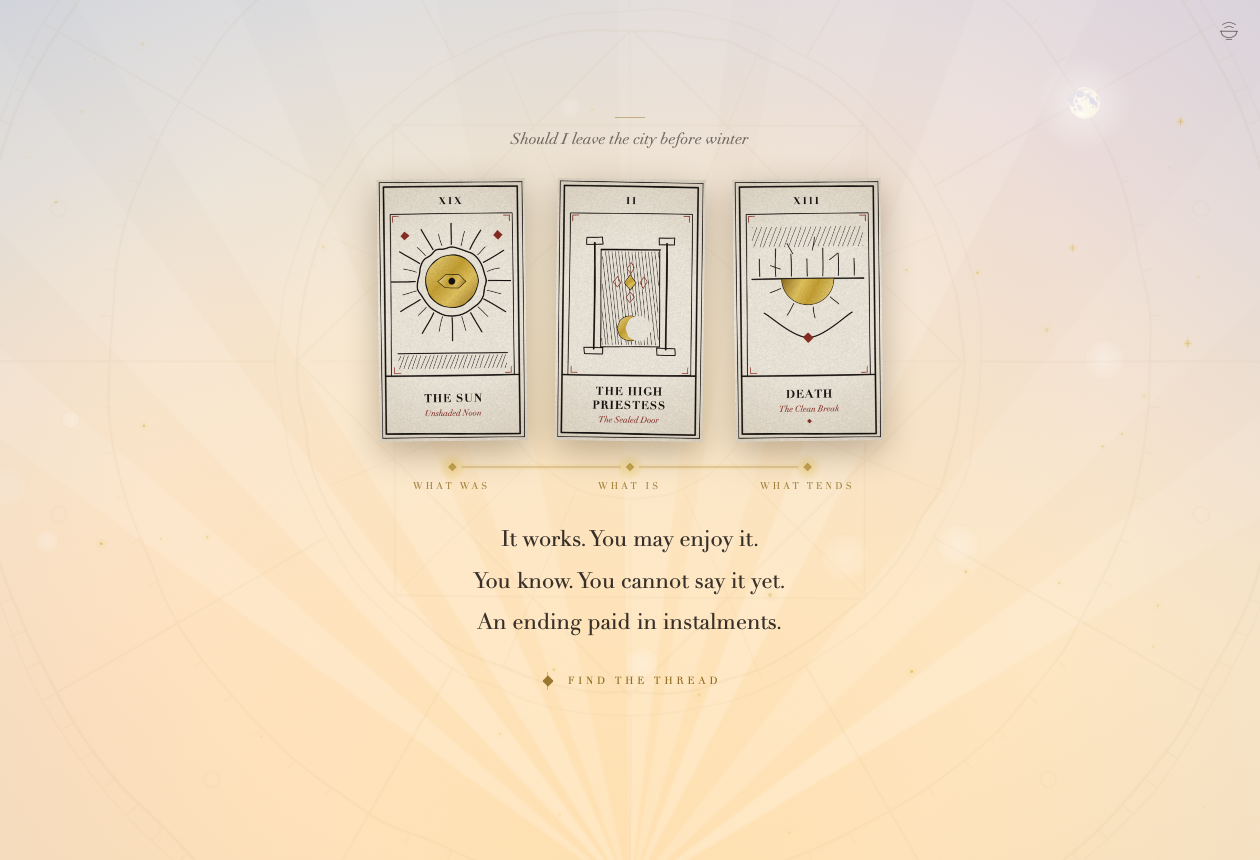
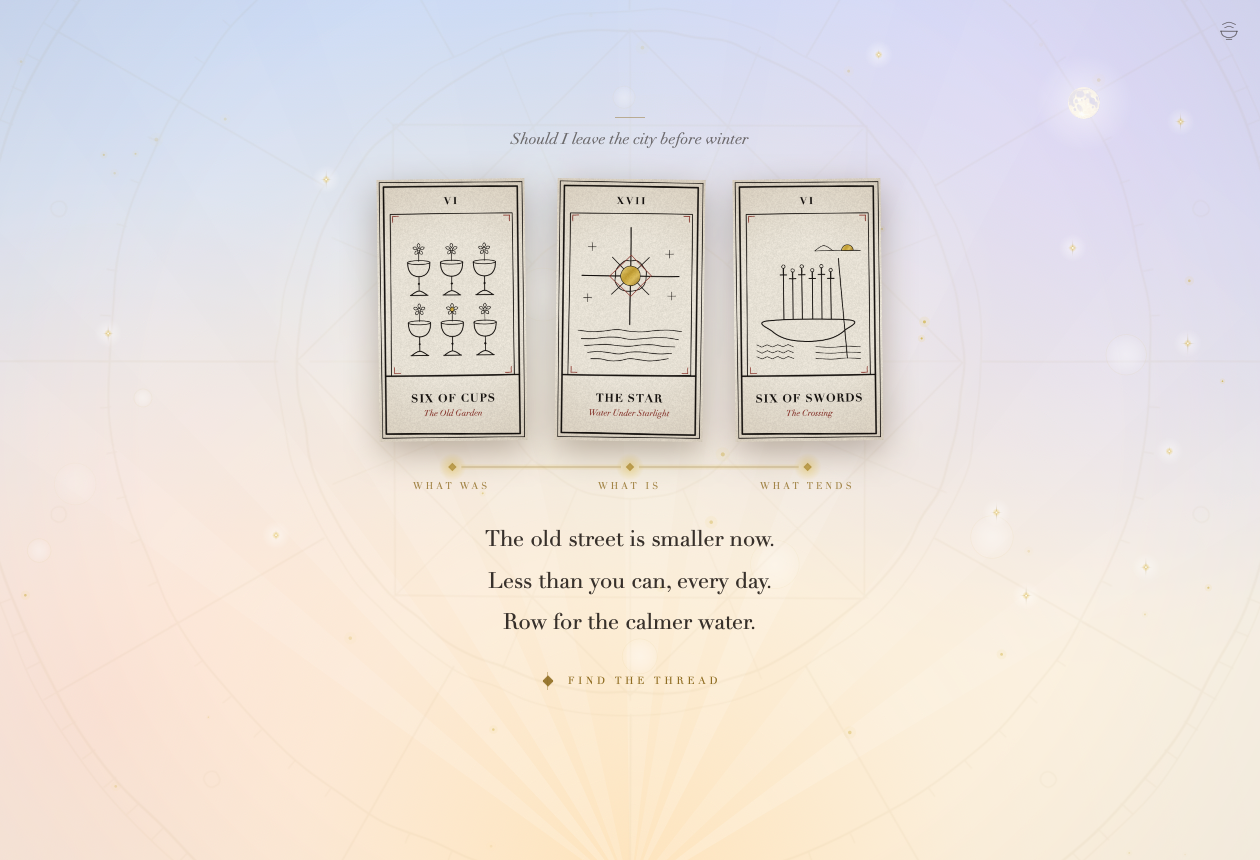
README: a reading from the whole deck, with the Star answered
- docs/arcana.png is drawn afresh under the same question, "Should I
  leave the city before winter": the Six of Cups, the Star and the Six of
  Swords, so the picture shows the suits beside the twenty-two. The Star
  is one of the sky's own, so its stars are out in the day sky.
- The verse answers the question: The old street is smaller now. / Less
  than you can, every day. / Row for the calmer water.
- The shot tool's 00-readme pose draws it; ./rebuild-shots.sh 00-readme
  draws it again. The Moon is left out, since its answer follows the real
  moon on the night it is drawn.
- The picture's alt text names the three cards.

diff --git a/Tools/shot/main.swift b/Tools/shot/main.swift
@@ -253,9 +253,9 @@ MainActor.assumeIsolated {
   }
   shoot("42-one-moon") { g in answered(g, spread: 0, [("moon", false)]) }
   // the README's picture (docs/arcana.png): the question, read back over a
-  // reading whose Sun the sky has answered
+  // reading of two suit cards and the Star, whose stars the sky has let out
   shoot("00-readme") { g in
-    answered(g, spread: 1, [("sun", false), ("priestess", false), ("death", true)])
+    answered(g, spread: 1, [("cups-6", false), ("star", false), ("swords-6", false)])
     g.quill.poseAsked(asked, at: long)
     g.sounded = false  // the moment the verse is spoken, before the chord and its prompt
   }

diff --git a/README.md b/README.md
@@ -3,7 +3,7 @@
 A tarot reading room for macOS. Native SwiftUI, no dependencies — all
 seventy-eight cards are drawn by code and every sound is synthesised at launch.
 
-![A Three Fates reading in Arcana: the written question set above the spread, three cards, and the reading spoken as verse](docs/arcana.png)
+![A Three Fates reading in Arcana: the written question set above the spread, the Six of Cups, the Star and the Six of Swords, and the reading spoken as verse](docs/arcana.png)
 
 ```bash
 ./build.sh && open build/Arcana.app
